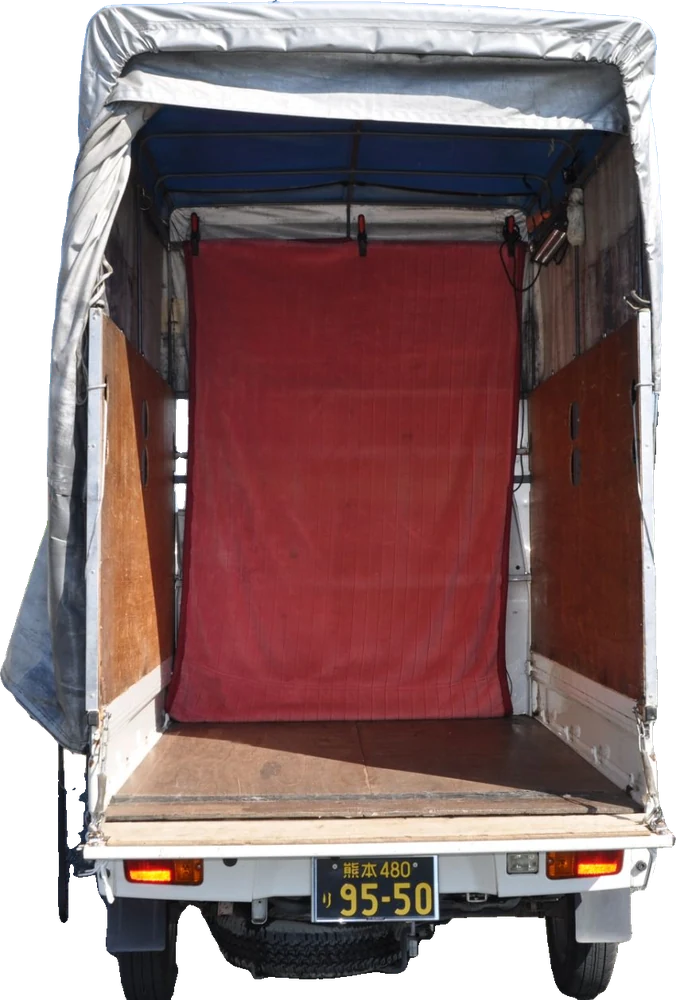
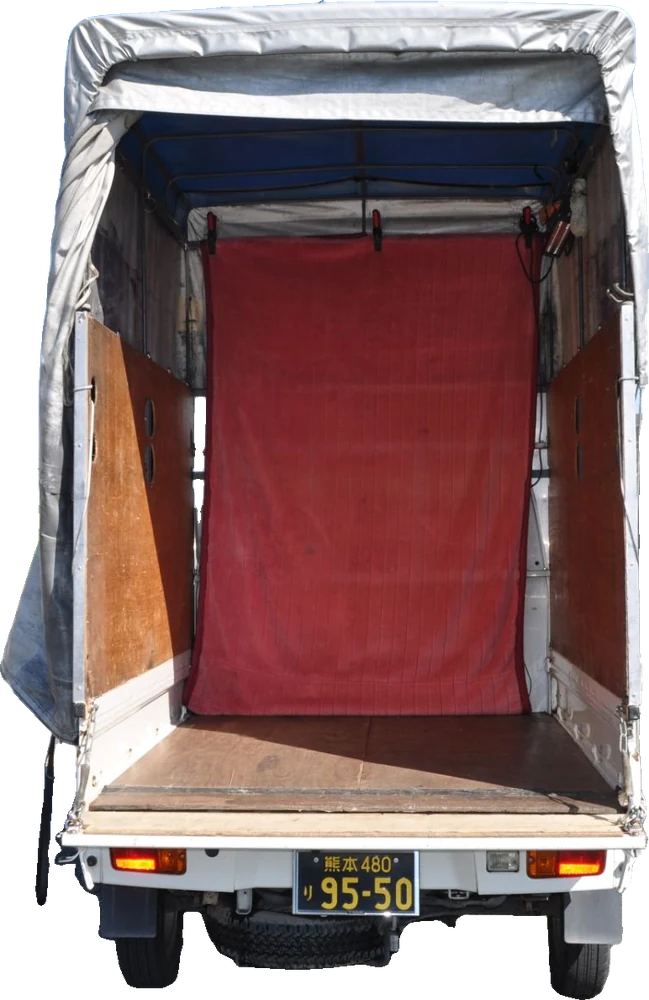
荷室寸法図を真後ろの写真に差し替え、正面写真をサムネイルに追加
Claude-Session: https://claude.ai/code/session_01UJZkWmKuVsCKefuCYgREub

diff --git a/company.html b/company.html
@@ -39,7 +39,8 @@
 @media (max-width:1024px){.g3,.g4{grid-template-columns:repeat(2,1fr)}.split,.g2{grid-template-columns:1fr;gap:32px}.h1{font-size:36px}.h2{font-size:28px}.sec{padding-top:58px}}
 @media (max-width:640px){.g2,.g3,.g4{grid-template-columns:1fr;gap:18px}.h1{font-size:29px}.h2{font-size:25px}.sec{padding-top:46px}}
 .veh-photo{background:linear-gradient(180deg,#f7f7f3,#e9ece6)}
-@media (max-width:640px){.g2.veh-thumbs{grid-template-columns:1fr 1fr}}
+.g3.veh-thumbs{grid-template-columns:repeat(3,1fr)}
+@media (max-width:640px){.g3.veh-thumbs{gap:10px}.veh-thumbs img{height:110px!important}}
 </style>
 </head>
 <body>
@@ -201,17 +202,17 @@
     <figure class="blueprint veh-photo" style="padding:24px;margin:0">
       <i class="corner tl"></i><i class="corner tr"></i><i class="corner bl"></i><i class="corner br"></i>
       <div style="position:relative;max-width:380px;margin:0 auto">
-        <img src="assets/img/truck-cargo.webp" alt="荷室の寸法：幅1,400mm、高さ2,100mm（低い状態で1,800mm）" width="676" height="1000" loading="lazy" style="width:100%;height:auto;display:block">
-        <svg viewBox="0 0 850 1258" aria-hidden="true" style="position:absolute;inset:0;width:100%;height:100%;overflow:visible">
+        <img src="assets/img/truck-cargo.webp" alt="荷室の寸法：幅1,400mm、高さ2,100mm（低い状態で1,800mm）" width="649" height="1000" loading="lazy" style="width:100%;height:auto;display:block">
+        <svg viewBox="0 0 772 1190" aria-hidden="true" style="position:absolute;inset:0;width:100%;height:100%;overflow:visible">
           <defs><marker id="ah" viewBox="0 0 10 10" refX="5" refY="5" markerWidth="4" markerHeight="4" orient="auto-start-reverse"><path d="M0 0L10 5L0 10z" fill="#f7d117"/></marker></defs>
           <g stroke="#f7d117" stroke-width="9" stroke-linecap="round" marker-start="url(#ah)" marker-end="url(#ah)">
-            <line x1="745" y1="985" x2="745" y2="178"/>
-            <line x1="160" y1="985" x2="790" y2="985"/>
+            <line x1="690" y1="962" x2="690" y2="152"/>
+            <line x1="112" y1="962" x2="742" y2="962"/>
           </g>
           <g font-family="Barlow Condensed, sans-serif" font-weight="700" fill="#f7d117" stroke="rgba(0,0,0,.55)" stroke-width="7" paint-order="stroke">
-            <text x="720" y="250" text-anchor="end" font-size="66">2,100mm</text>
-            <text x="720" y="315" text-anchor="end" font-size="48">（1,800mm）</text>
-            <text x="180" y="955" font-size="66">1,400mm</text>
+            <text x="668" y="228" text-anchor="end" font-size="62">2,100mm</text>
+            <text x="668" y="288" text-anchor="end" font-size="45">（1,800mm）</text>
+            <text x="132" y="934" font-size="62">1,400mm</text>
           </g>
         </svg>
       </div>
@@ -228,7 +229,11 @@
           </tbody>
         </table>
       </div>
-      <div class="g2 veh-thumbs" style="margin-top:28px;gap:16px">
+      <div class="g3 veh-thumbs" style="margin-top:28px;gap:14px">
+        <figure class="blueprint veh-photo" style="padding:12px;margin:0">
+          <i class="corner tl"></i><i class="corner tr"></i><i class="corner bl"></i><i class="corner br"></i>
+          <img src="assets/img/truck-front-straight.webp" alt="正面" width="727" height="1000" loading="lazy" style="width:100%;height:170px;object-fit:contain;display:block">
+        </figure>
         <figure class="blueprint veh-photo" style="padding:12px;margin:0">
           <i class="corner tl"></i><i class="corner tr"></i><i class="corner bl"></i><i class="corner br"></i>
           <img src="assets/img/truck-side.webp" alt="あおりを開けた荷台（側面）" width="1000" height="942" loading="lazy" style="width:100%;height:170px;object-fit:contain;display:block">
